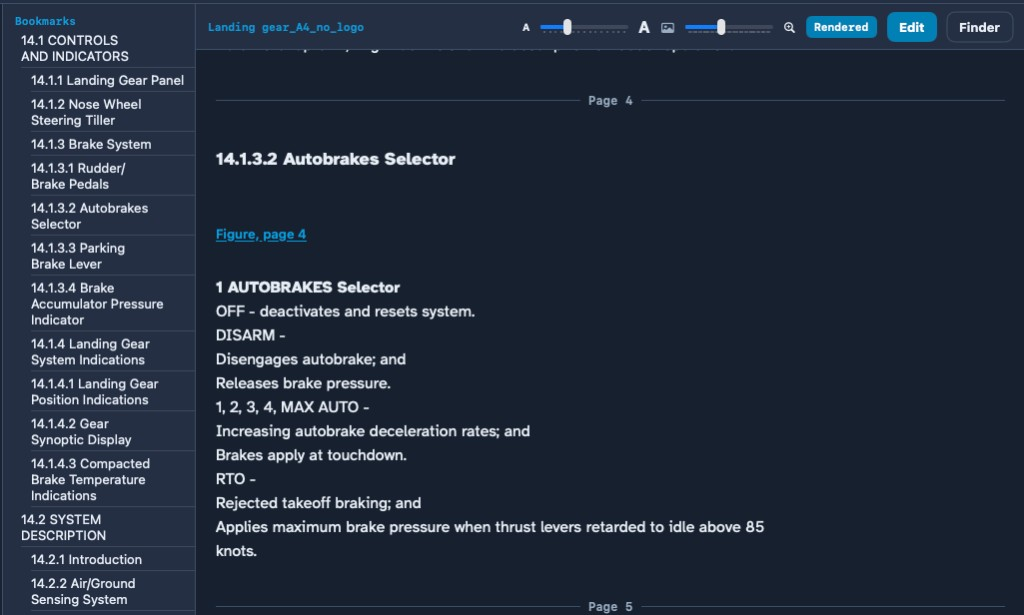
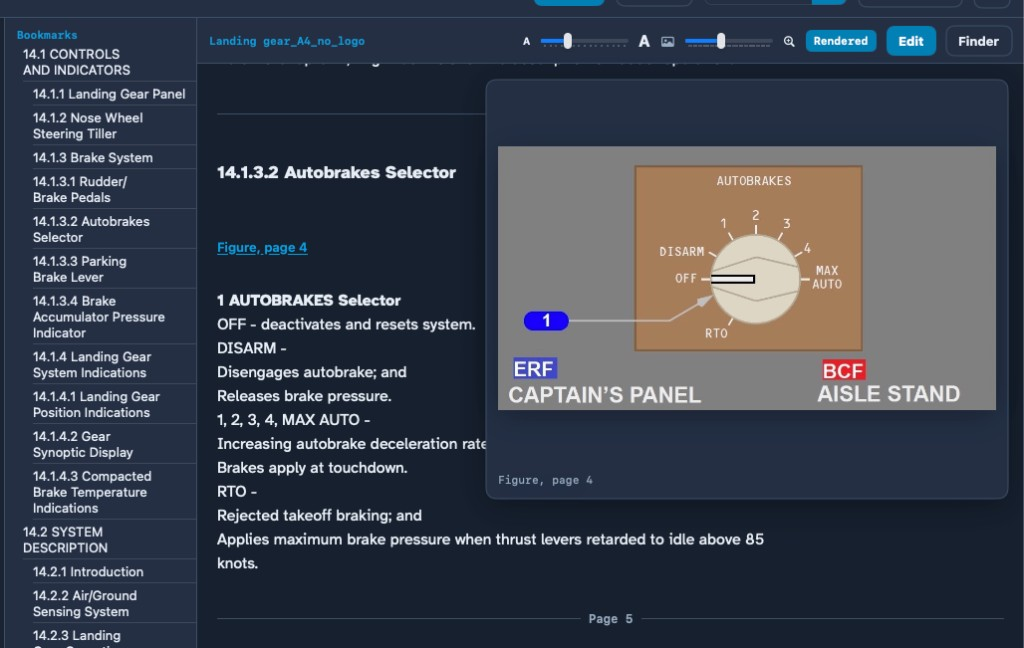
Use the hover-preview shot for the figure-link intro picture.

diff --git a/README.md b/README.md
@@ -52,7 +52,7 @@ Library at night — files, bookmarks, and the text. Ask a chapter underneath. B
 
 <br>
 
-<img src="docs/shots/figure-link.png" width="880" alt="Reader: a blue Figure link, bookmarks on the left, text size and picture sliders in the header">
+<img src="docs/shots/figure-link.png" width="880" alt="Reader: rest the pointer on a blue Figure link to see the picture; sliders in the header set text size and preview size">
 
 <br>
 
